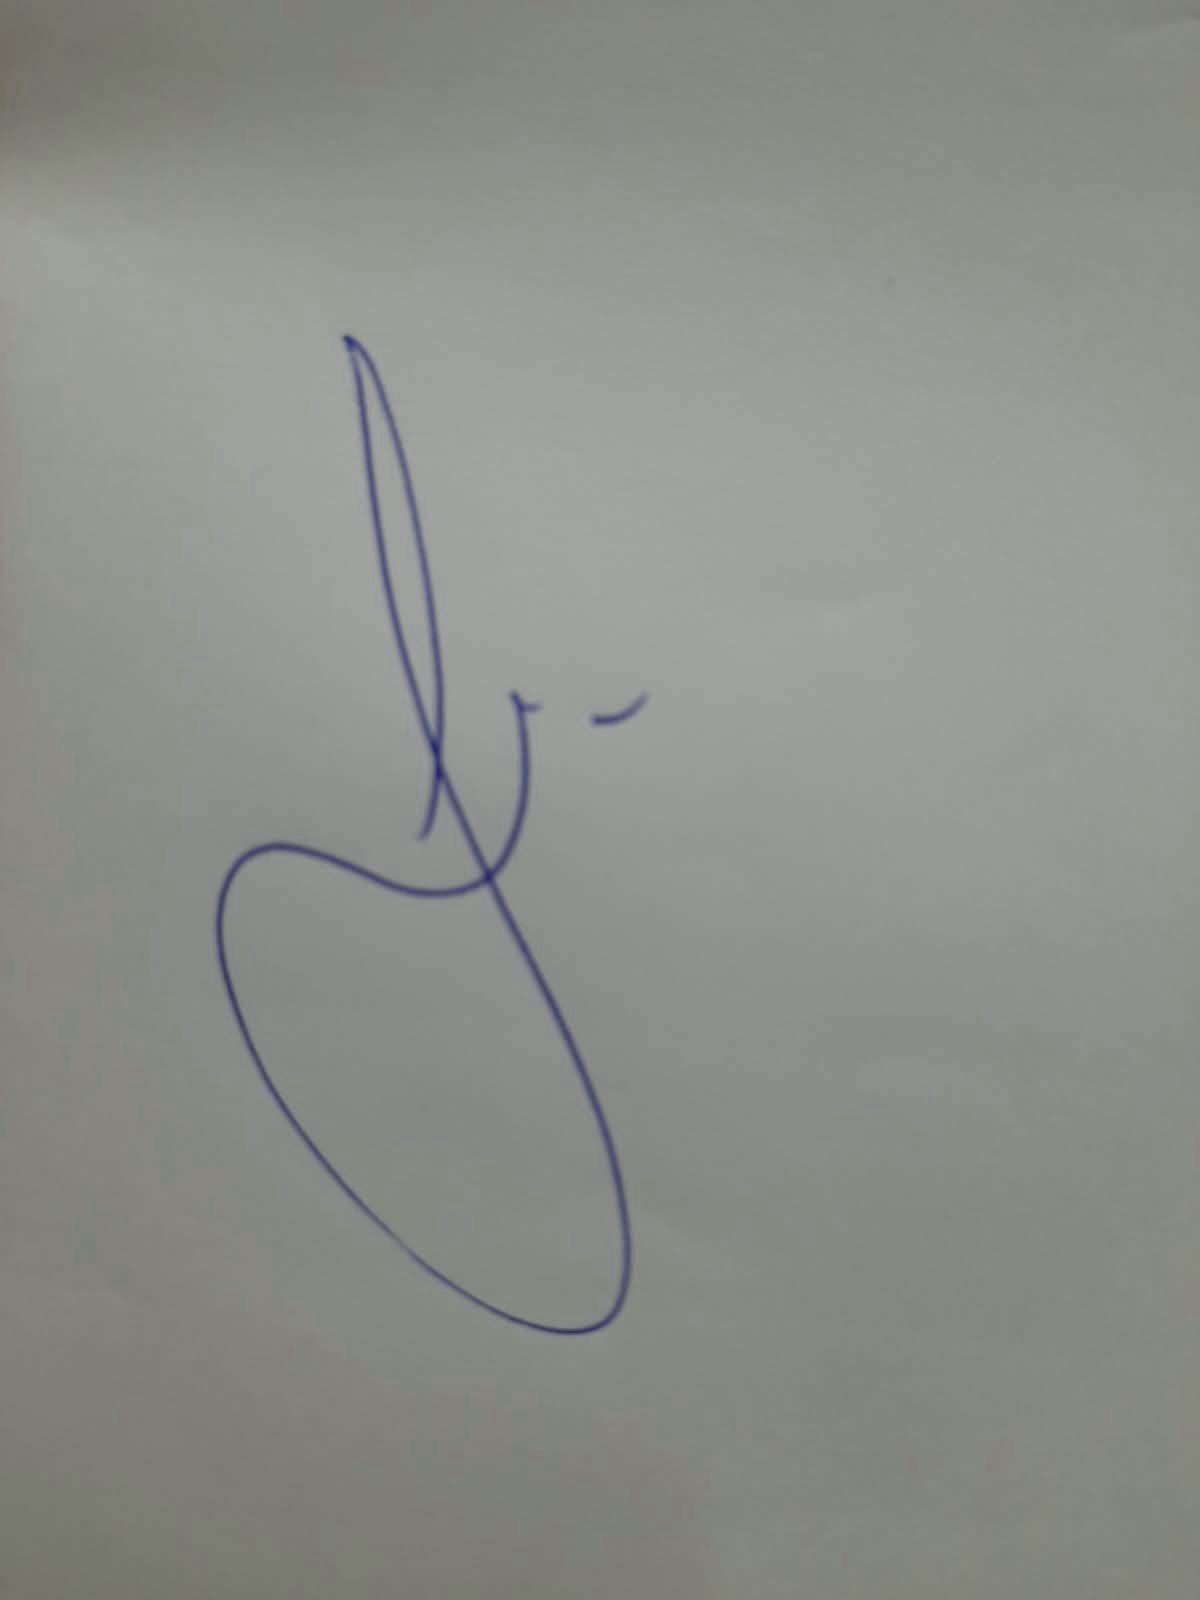
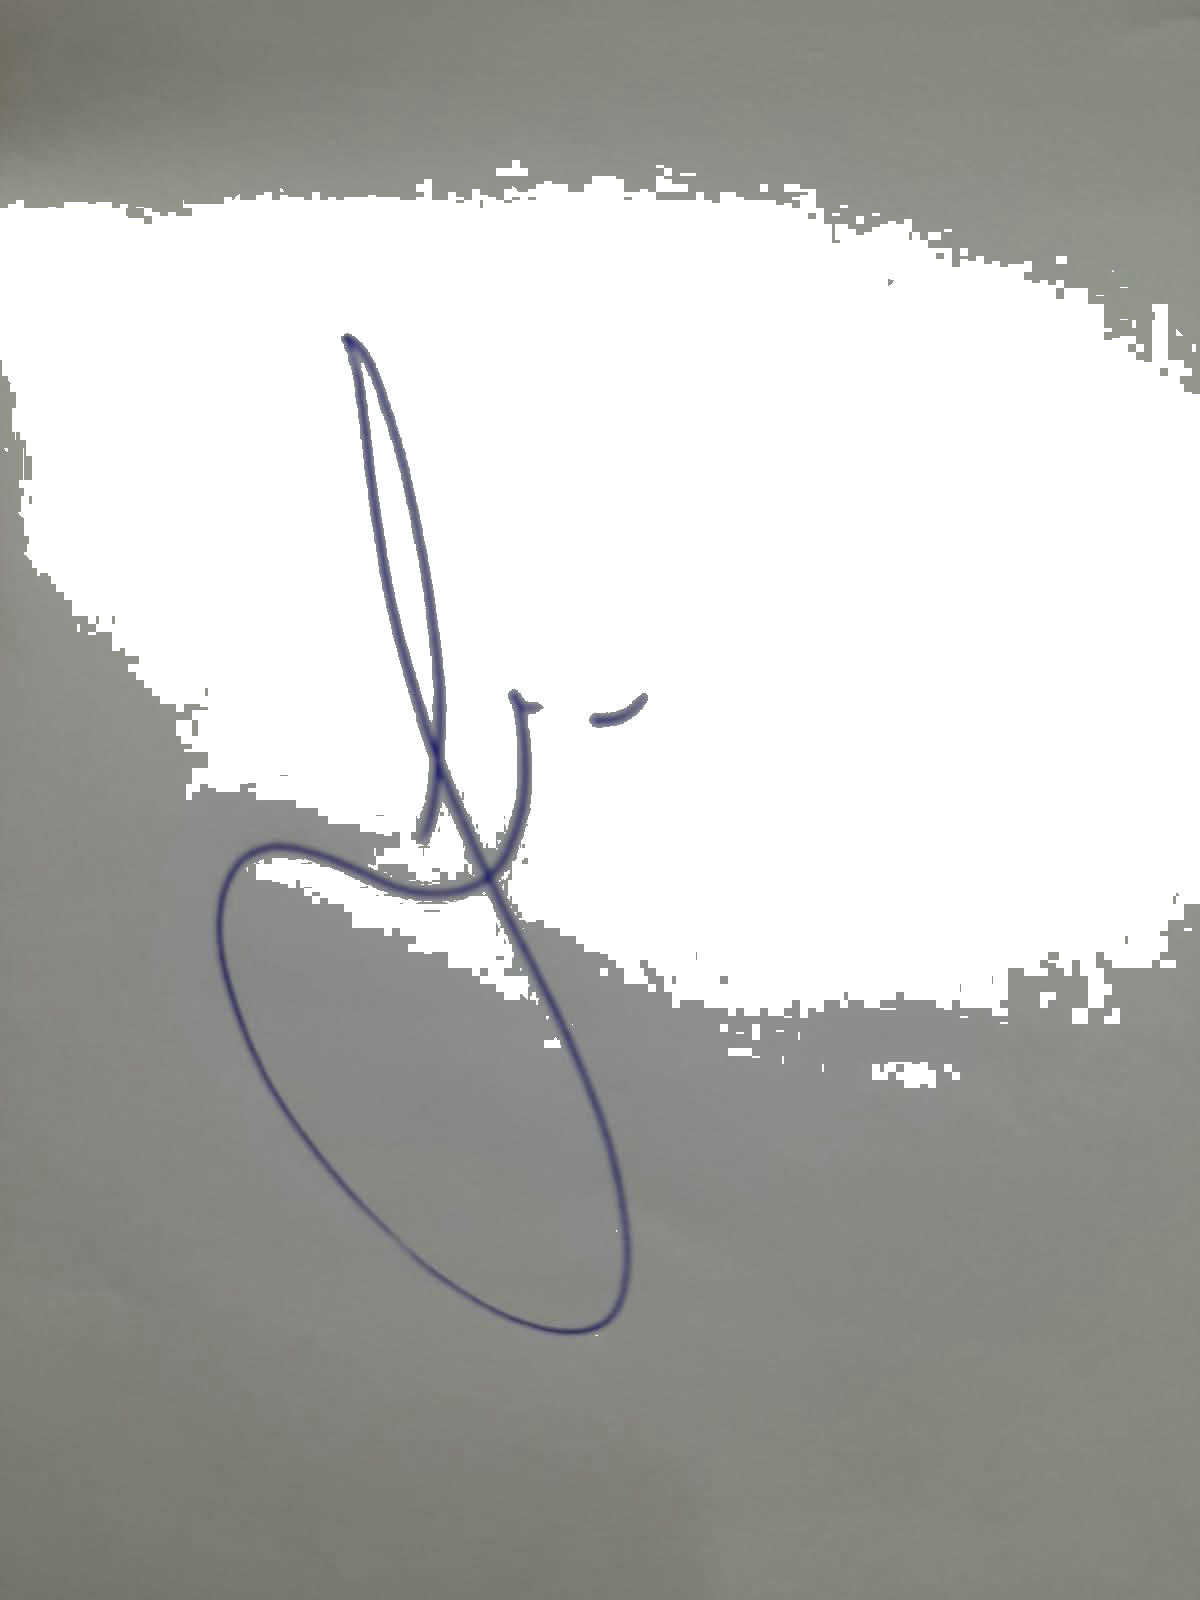
Ajusta tolerancia para limpar fundo cinza da assinatura

diff --git a/tratar_assinatura.js b/tratar_assinatura.js
@@ -19,14 +19,14 @@ async function processarAssinatura() {
             const green = this.bitmap.data[idx + 1];
             const blue = this.bitmap.data[idx + 2];
 
-            // Se o pixel for claro (fundo do papel), torna-o totalmente transparente
-            if (red > 190 && green > 190 && blue > 190) {
-                this.bitmap.data[idx + 3] = 0; // Alpha 0 (transparente)
+            // Tolerância maior (140): se o tom for claro ou acinzentado, torna transparente
+            if (red > 140 && green > 140 && blue > 140) {
+                this.bitmap.data[idx + 3] = 0; // Transparente
             }
         });
 
         await imagem.write(arquivoSaida);
-        console.log('Sucesso! Assinatura transparente salva em:', arquivoSaida);
+        console.log('Sucesso! Assinatura limpa e transparente salva em:', arquivoSaida);
     } catch (erro) {
         console.error('Erro ao processar assinatura:', erro);
     }
